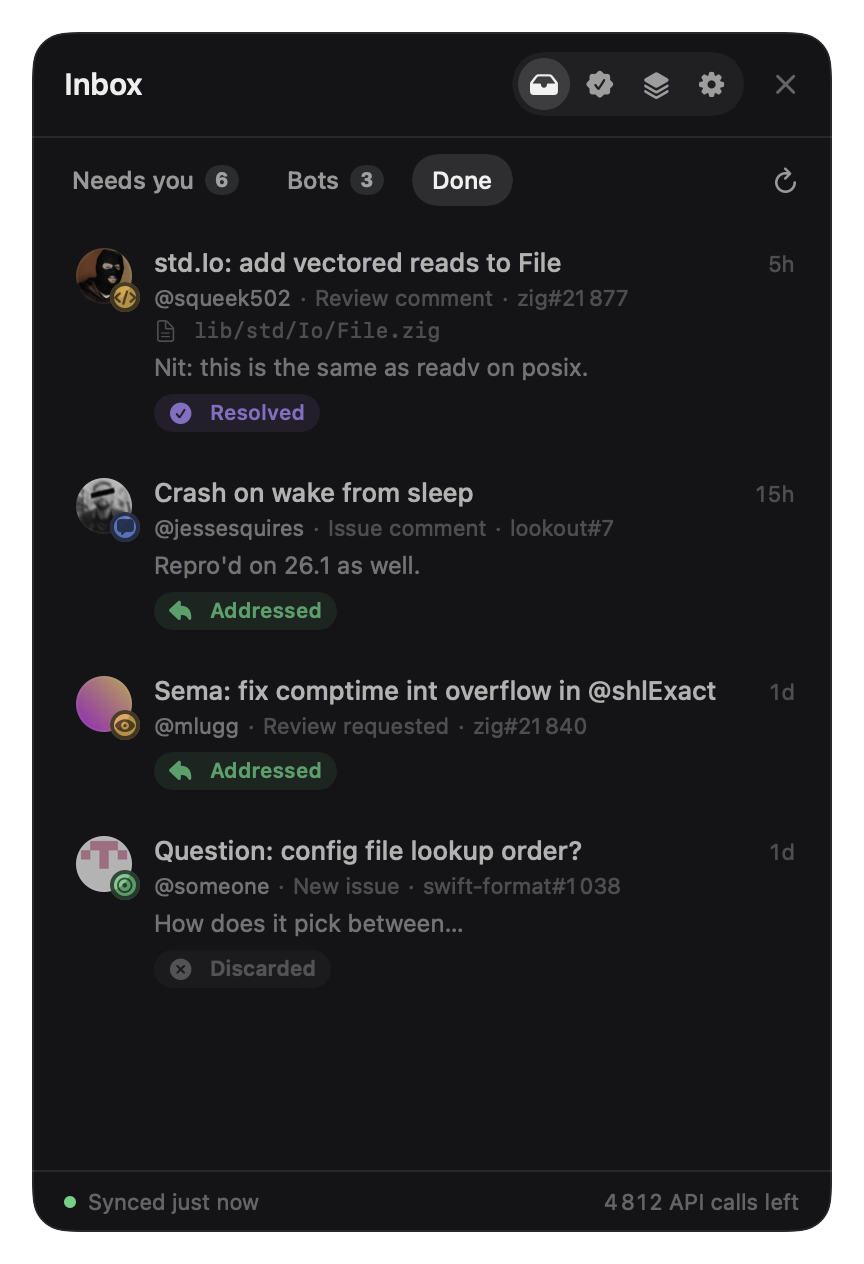
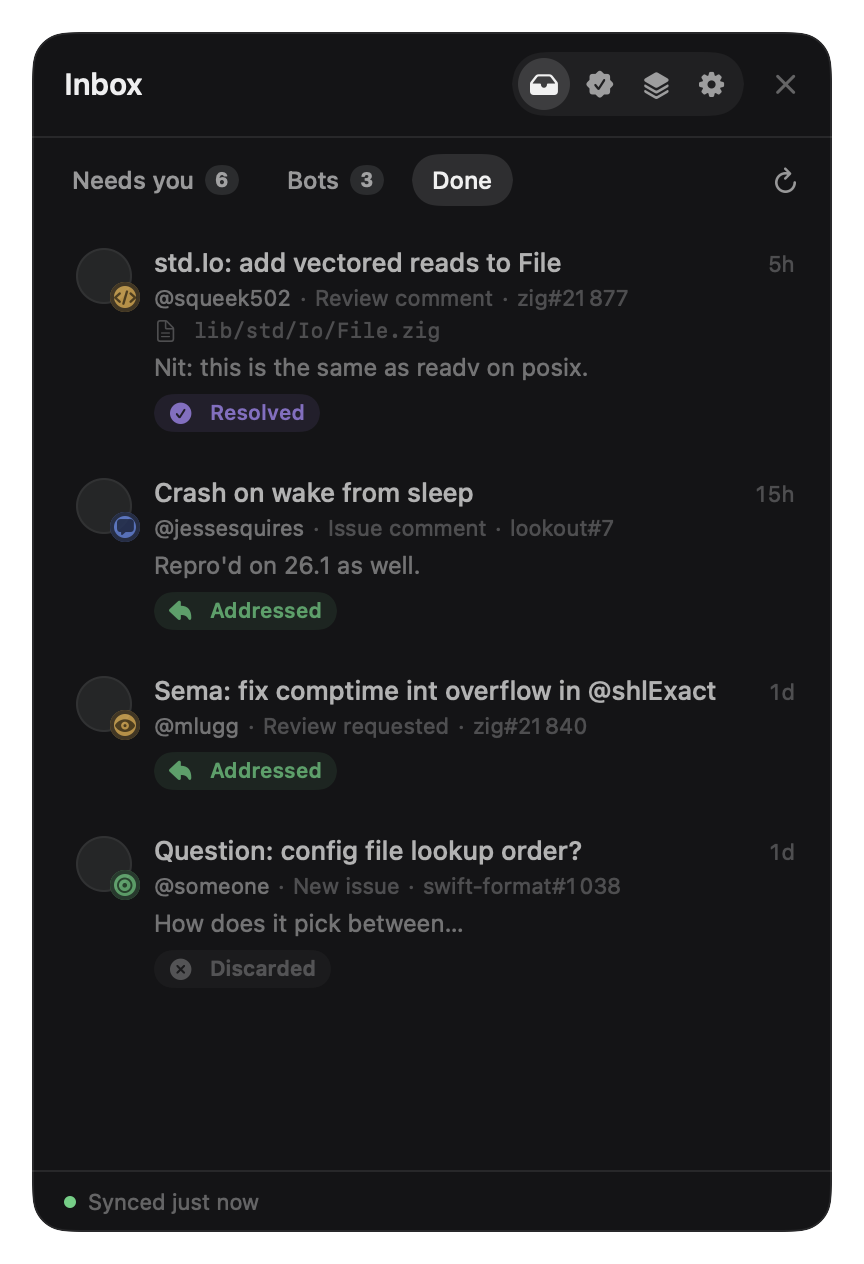
Footer: show API rate limit only when it runs low

diff --git a/Sources/Lookout/PanelView.swift b/Sources/Lookout/PanelView.swift
@@ -22,6 +22,7 @@ struct PanelView: View {
             footer
         }
         .foregroundStyle(Theme.text)
+        .tipSpace()
         .frame(width: UIController.panelContent.width, height: UIController.panelContent.height)
         .background(Theme.bg)
         .clipShape(RoundedRectangle(cornerRadius: 18, style: .continuous))
@@ -72,9 +73,13 @@ struct PanelView: View {
                     }
                 }
                 Spacer()
-                if let rate = store.rateRemaining {
-                    Text("\(rate.formatted()) API calls left")
+                // Only worth showing when the shared GitHub rate limit is running low.
+                if let rate = store.rateRemaining, rate < 500 {
+                    Label("\(rate.formatted()) API calls left this hour", systemImage: "exclamationmark.triangle.fill")
                         .monospacedDigit()
+                        .foregroundStyle(Theme.amber)
+                        .tip("GitHub rate limit low",
+                             "Shared with gh and other tools using your account. Syncing pauses at 0 until the hour resets.")
                 }
             }
             .font(.system(size: 11))

diff --git a/Sources/Lookout/Demo.swift b/Sources/Lookout/Demo.swift
@@ -50,6 +50,7 @@ enum Demo {
             store.settings.snoozeUntil = Calendar.current.date(bySettingHour: 18, minute: 30, second: 0, of: now)
                 .map { $0 > now ? $0 : now.addingTimeInterval(3600) }
         case .error:
+            store.rateRemaining = 312
             store.repoErrors["ziglang/zig"] = "Not found (or no access)"
             store.ci["0xpolarzero/lookout"]?.state = .failure
             store.ci["0xpolarzero/lookout"]?.failing = ["test (macos-15)"]
